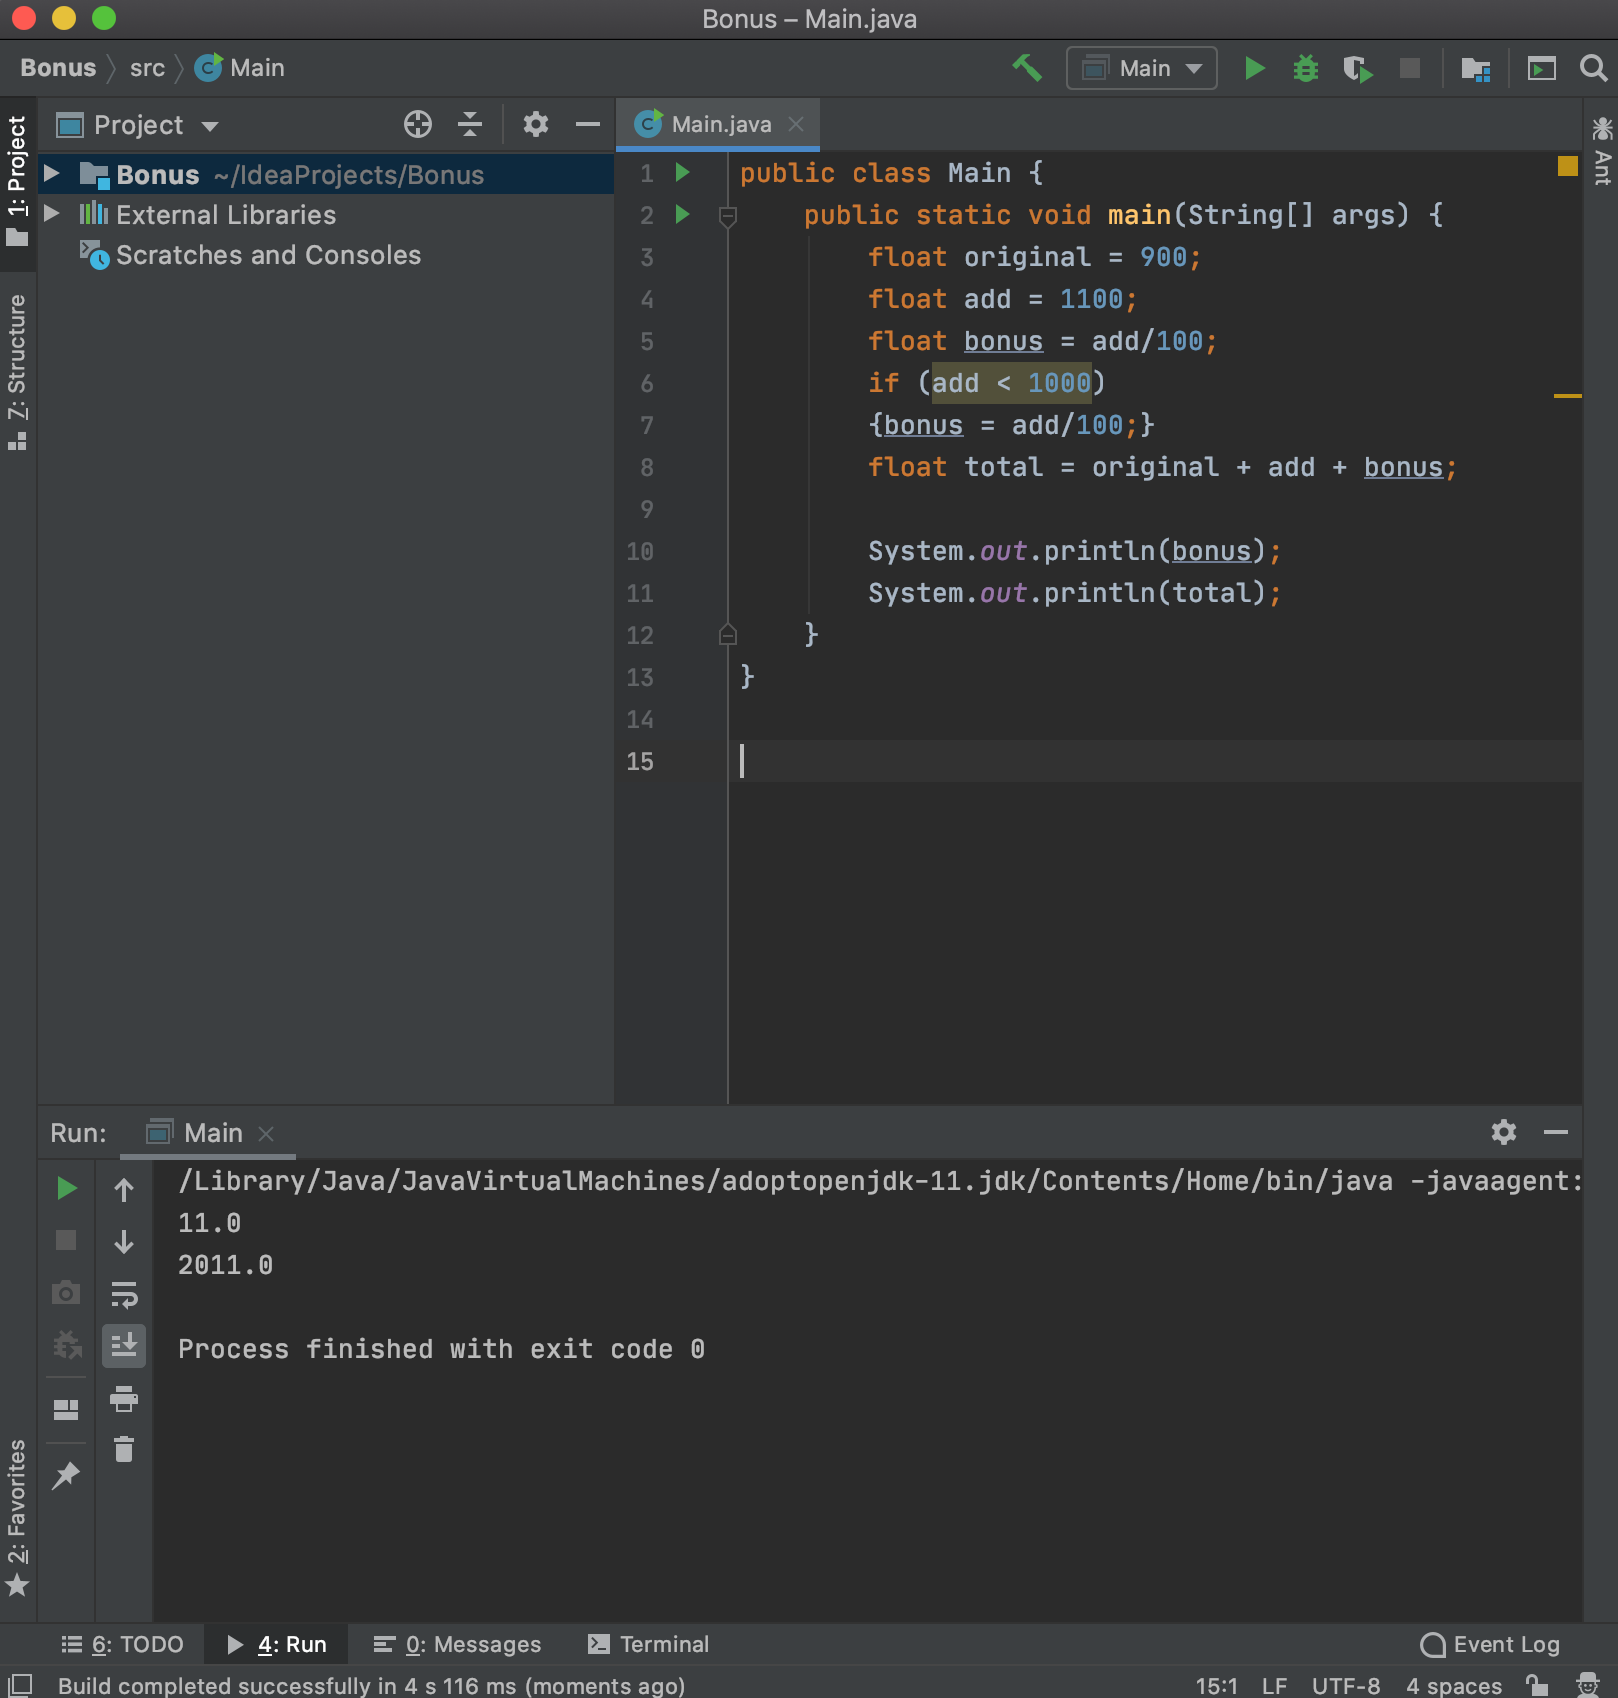
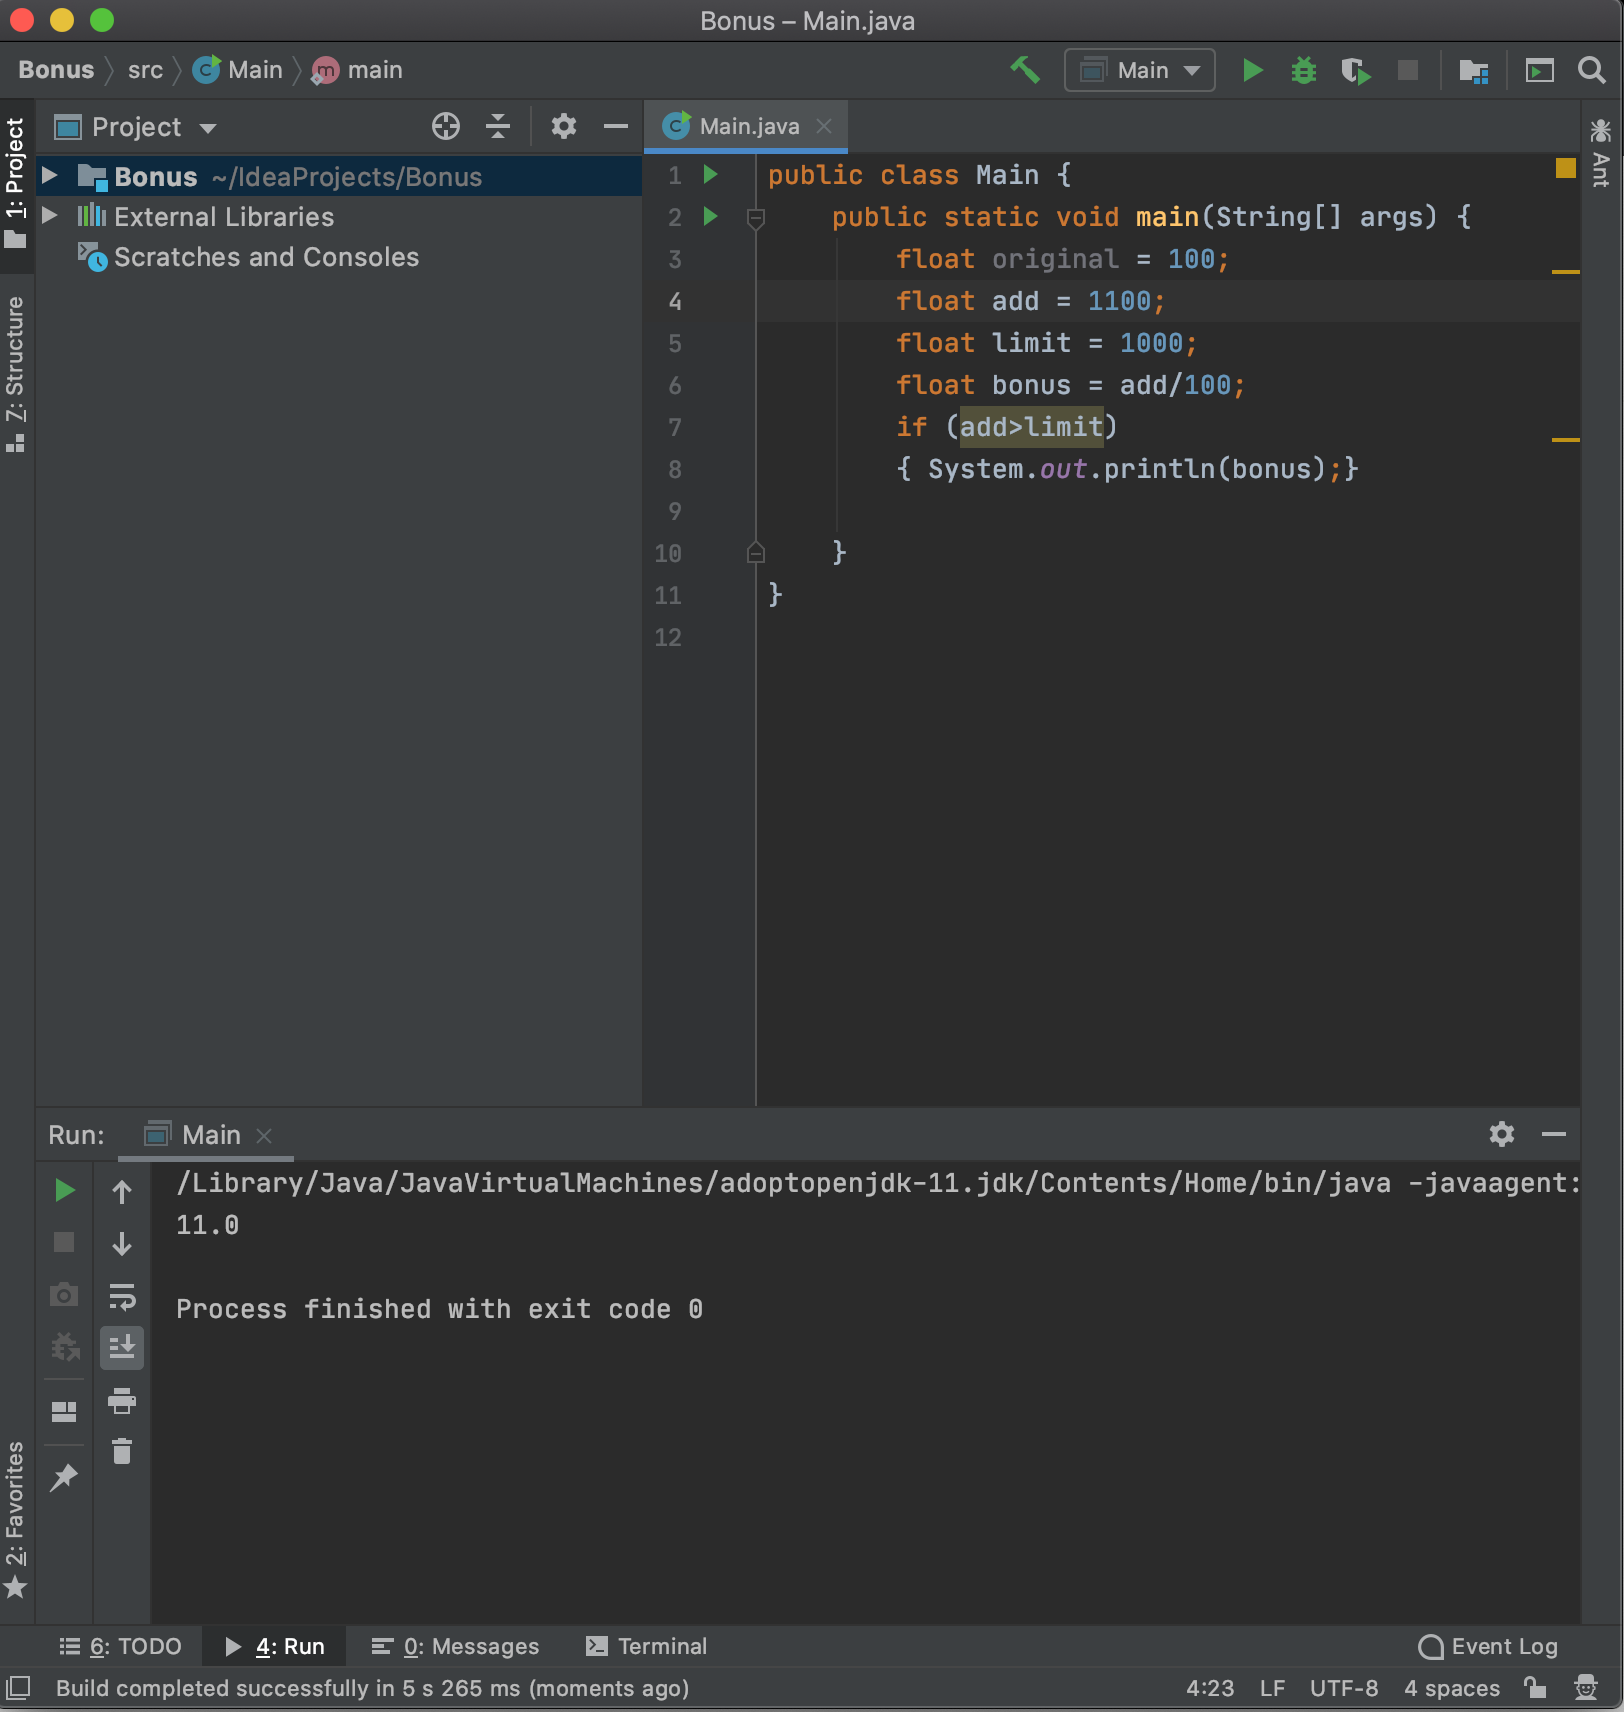
0406

diff --git a/Main.java b/Main.java
@@ -1,13 +1,11 @@
 public class Main {
     public static void main(String[] args) {
-        float original = 900;
+        float original = 100;
         float add = 1100;
+        float limit = 1000;
         float bonus = add/100;
-        if (add < 1000)
-        {bonus = add/100;}
-        float total = original + add + bonus;
+        if (add>limit)
+        { System.out.println(bonus);}
 
-        System.out.println(bonus);
-        System.out.println(total);
     }
 }
